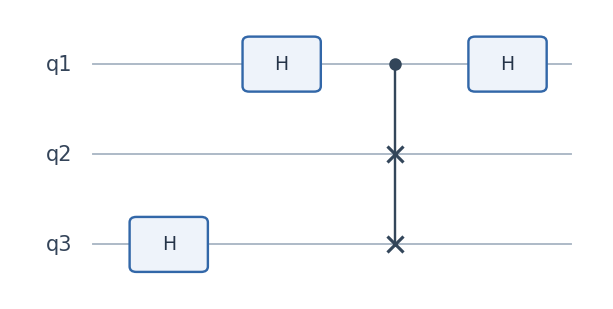
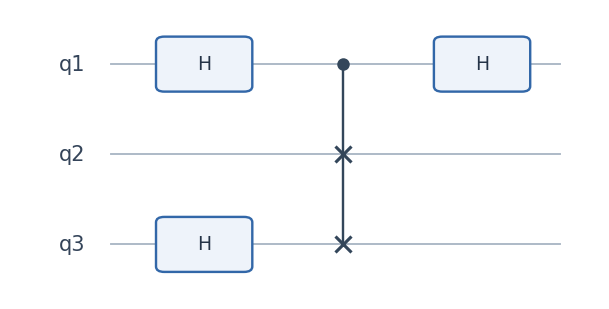
Automatically layer circuit plots and refresh documentation figures
Group flat operation lists into parallel layers in the shared text/PyPlot
renderer, preserving explicit grouping and connector spacing. Clarify
get_layers usage and refresh the documentation circuit figures.

Verification: 52 layer/text-display checks and focused grouping checks
passed. Regenerated and visually inspected all 12 circuit figures;
five PNGs changed.

diff --git a/README.md b/README.md
@@ -171,7 +171,8 @@ Save operations and settings with
 
 ## Optional packages
 
-`plotq(ops)` prints a boxed circuit diagram without a plotting dependency.
+`plotq(ops)` automatically groups operations into parallel layers and prints a
+boxed circuit diagram without a plotting dependency.
 `plotqt` provides direct text rendering. For graphical output,
 install and load PyPlot, then select it explicitly:
 
